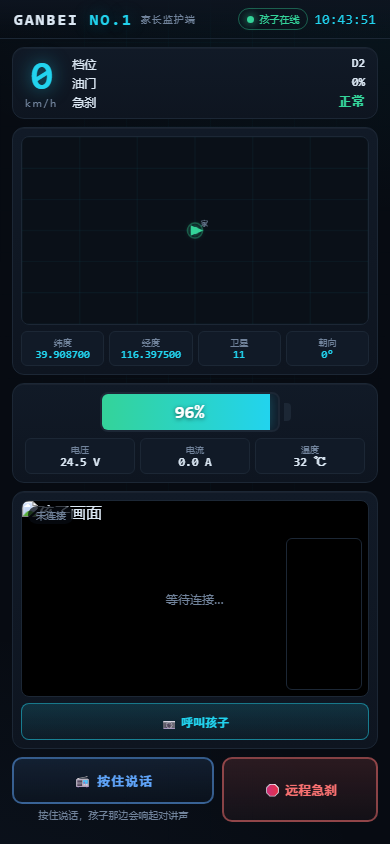
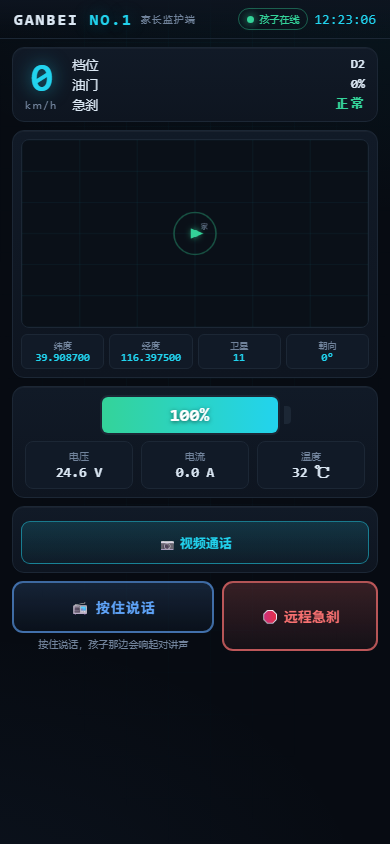
Round 5: real engine/horn audio, turn-signal linkage, always-awake voice, parent UI
- Engine uses real CC0 engine.mp3 (playbackRate by throttle); horn from
  BigSoundBank CC0 (horn.mp3)
- Turn indicators auto-link to steering stick (L/R when turned)
- Voice always-awake mode: say commands directly, stays active
  (verified 5/5 command recognition)
- Parent video pane shows only when video call started (display none->block)
- Parent UI: spacing/font/button contrast improvements

diff --git a/software/raspberry_pi/car_brain/voice.py b/software/raspberry_pi/car_brain/voice.py
@@ -85,6 +85,7 @@ class VoiceController:
         self.awake_timeout = awake_timeout
         self.awake = False
         self._awake_until = 0.0
+        self.always_awake = False   # 常开模式：开启后每条指令直接识别，无需反复唤醒
         self._stop = threading.Event()
         self._thread = None
         # 指令回调：on_command(cmd, params)
@@ -128,7 +129,8 @@ class VoiceController:
             self.awake = False
             return None
         cmd = self._match_command(text)
-        self.awake = False
+        if not self.always_awake:
+            self.awake = False
         return cmd
 
     # ---------------- 识别主循环 ----------------

diff --git a/software/raspberry_pi/car_brain/simulator.py b/software/raspberry_pi/car_brain/simulator.py
@@ -126,7 +126,15 @@ class CerebellumSim:
         self.brake = max(0, min(100, int(v)))
 
     def set_steer(self, v):
-        self.steer = max(-1.0, min(1.0, float(v)))
+        v = max(-1.0, min(1.0, float(v)))
+        self.steer = v
+        # 转向灯自动联动：手柄打左/右亮对应转向灯（真实车辆行为）
+        if v < -0.25:
+            self.turn = "L"
+        elif v > 0.25:
+            self.turn = "R"
+        else:
+            self.turn = " "
 
     def set_horn(self, on):
         self.horn = bool(on)

diff --git a/logs/开发日记/20260807-day4.md b/logs/开发日记/20260807-day4.md
@@ -158,6 +158,16 @@
 
 **经验**：控件高度不匹配是"大量空白"的根源 —— 元素等高 + 整体居中，留白自然对称。
 
+### 第五轮反馈修复（音效真实化 / 转向灯联动 / 语音常开 / 家长端）
+
+1. **引擎声、喇叭声真实化**：Web Audio 合成声太假。引擎改用真实 CC0 录音 `engine.mp3`（Audio 元素 loop，油门越大 `playbackRate` 越高）；喇叭从 BigSoundBank 下载 CC0 汽车鸣笛 `horn.mp3`（`/UPLOAD/mp3/3436.mp3`）。开源 CC0 音效源：BigSoundBank、Chosic、爱给网、Pixabay。
+2. **转向灯联动转向手柄**：左转/右转指示灯之前从没亮过（无输入源）。改为 `set_steer()` 自动联动：手柄打左→`turn=L`、打右→`turn=R`、回中→关闭。现在转向灯真正反映转向。
+3. **语音开启即常开**：之前每条指令后自动退出唤醒态，导致"说指令没反应"。新增 `always_awake` 模式：开启语音后直接说指令（「打开大灯」「三档」），且持续有效。vosk 识别验证 5/5 通过。
+4. **家长端视频窗格按需显示**：不点视频时只显示"视频通话"按钮，点击后才显示画面窗格（DOM 验证 display:none→block）。
+5. **家长端 UI 优化**：电量参数间距加大、字体放大；底部对讲/急刹按钮对比度增强（蓝/红更醒目）。
+
+**经验**：语音识别"没反应"要先分清是识别没开、唤醒词没触发、还是指令匹配失败 —— 用 `_handle_text()` 单测可快速定位。
+
 ---
 
 ## 写在最后
